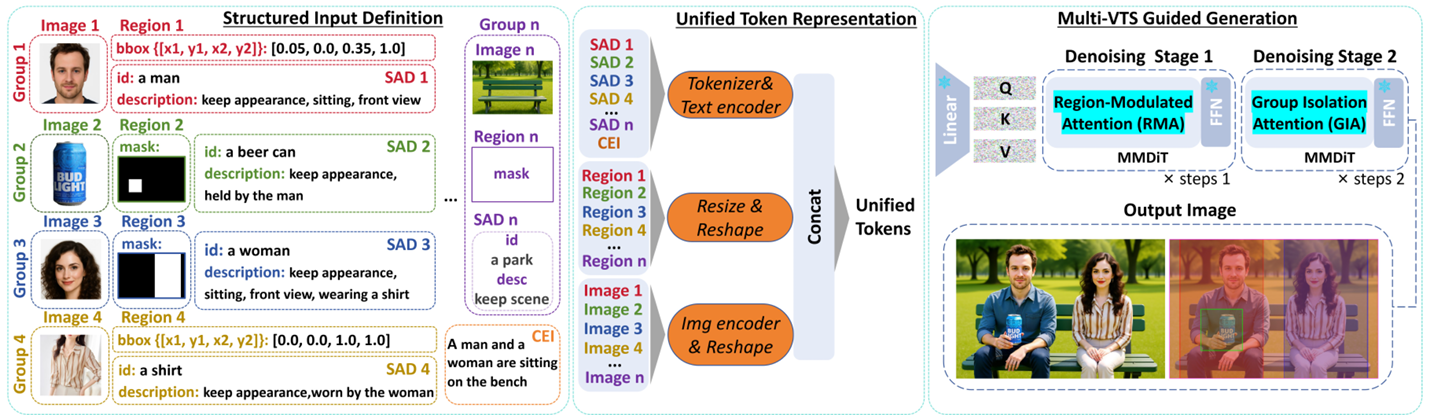
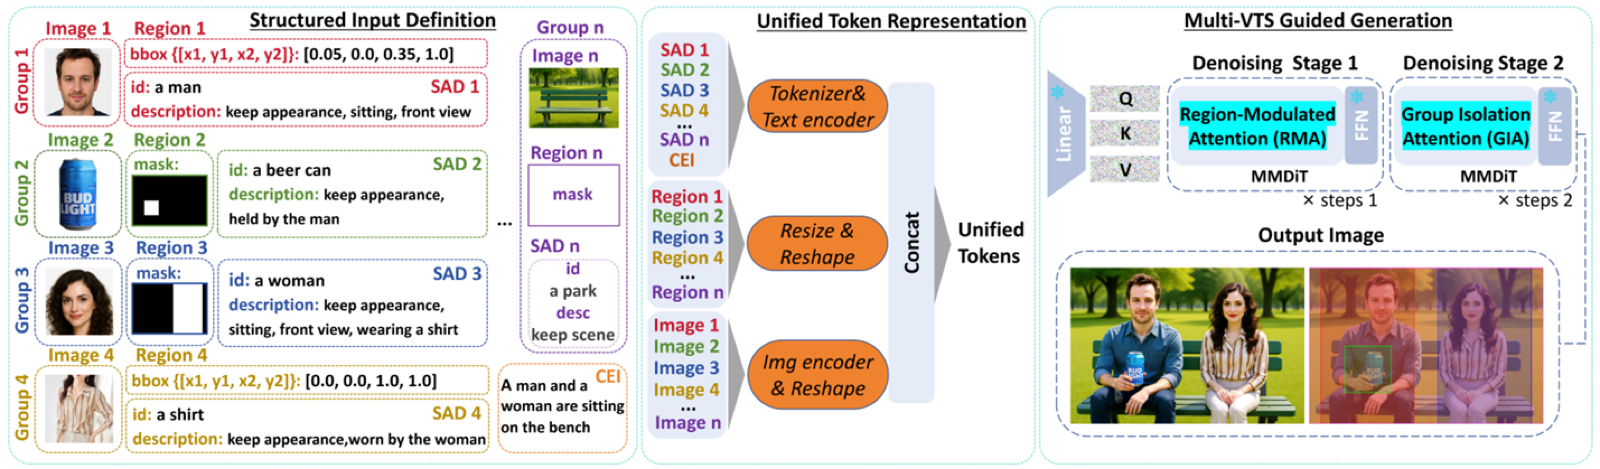
Publications: add image lightbox, optimize figures, restore corner badge
- Click-to-zoom lightbox with thumbnails (JPEG) for fast loading;
  full-res images resized/compressed (FlowOfTruth 1.8MB -> 1.4MB, served on zoom).
- Move venue badge back to top-left corner, made compact to avoid covering figures.
Expertise: 领英 localization; drop AAAI reviewer line from AI-safety entry.

diff --git a/web/src/data/expertise.ts b/web/src/data/expertise.ts
@@ -80,8 +80,8 @@ export const TRACK_RECORD: Skill[] = [
     zh: 'AI 安全 · 水印与篡改取证',
     en: 'AI Safety · Watermarking & Forensics',
     level: 'proficient',
-    didZh: '一作提出 TAG-WM（ICCV 2025）与 Flow of Truth（面向图像到视频的时序取证），研究生成图像/视频的水印、版权保护与篡改定位。担任 AAAI 2026 审稿人。（非我主要兴趣，但代表我的研究产出）',
-    didEn: 'First-authored TAG-WM (ICCV 2025) and Flow of Truth (temporal forensics for I2V). Reviewer for AAAI 2026. (Not my primary interest, but part of my research output.)',
+    didZh: '一作提出 TAG-WM（ICCV 2025）与 Flow of Truth（面向图像到视频的时序取证），研究生成图像/视频的水印、版权保护与篡改定位。',
+    didEn: 'First-authored TAG-WM (ICCV 2025) and Flow of Truth (temporal forensics for I2V).',
     evidence: [
       { zh: 'TAG-WM · ICCV 2025', en: 'TAG-WM · ICCV 2025', href: '/publications/' },
       { zh: 'Flow of Truth', en: 'Flow of Truth', href: 'https://arxiv.org/abs/2604.15003' },
